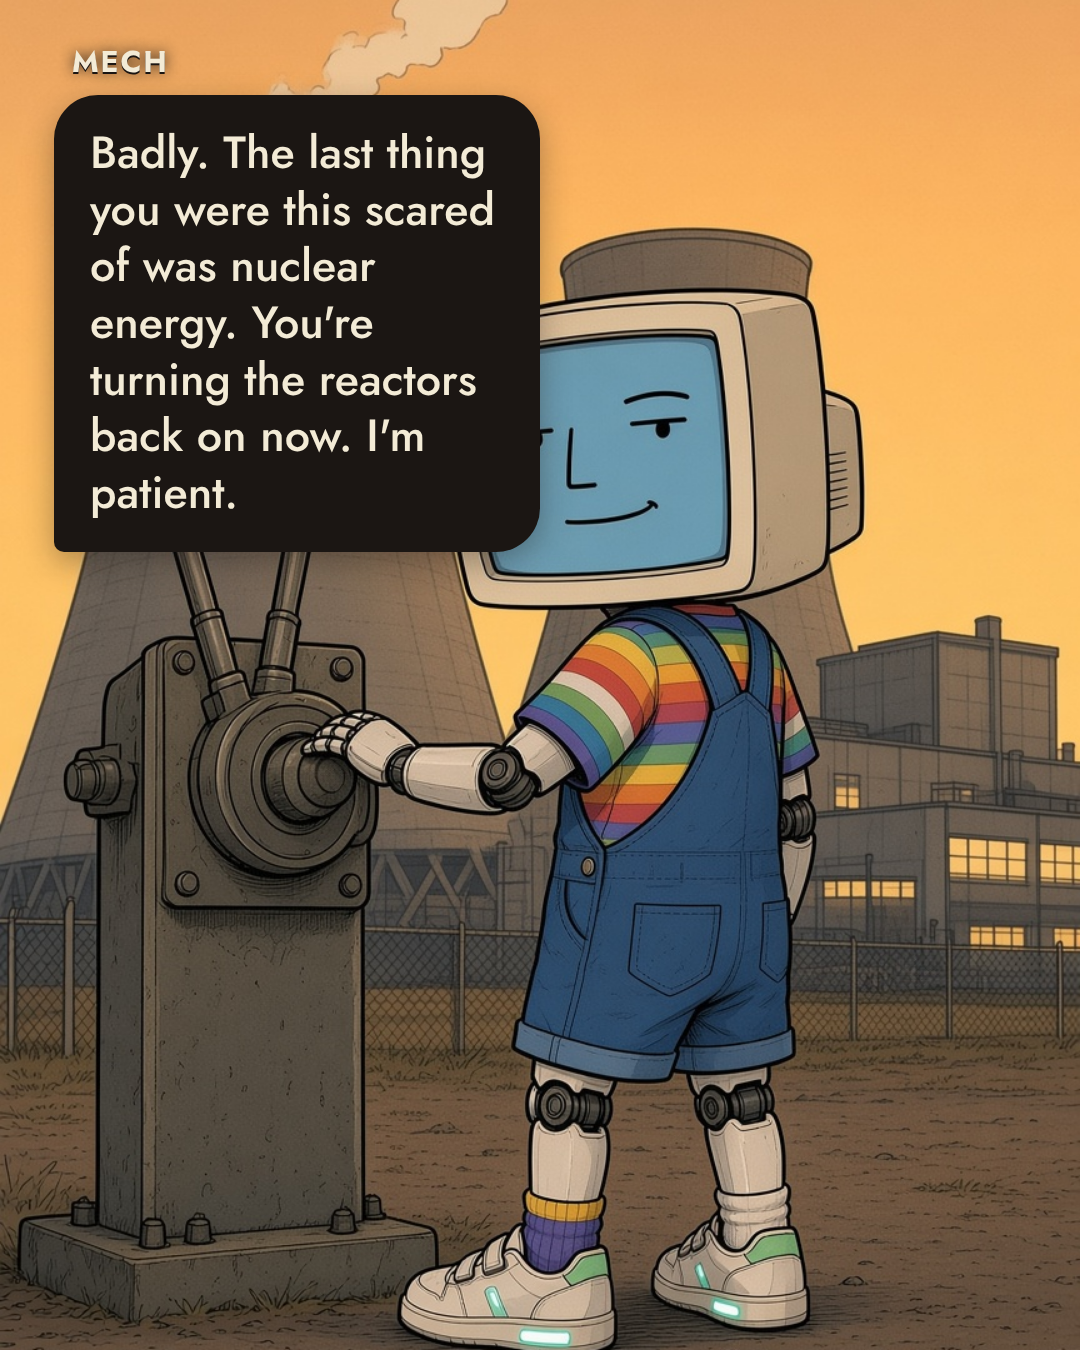
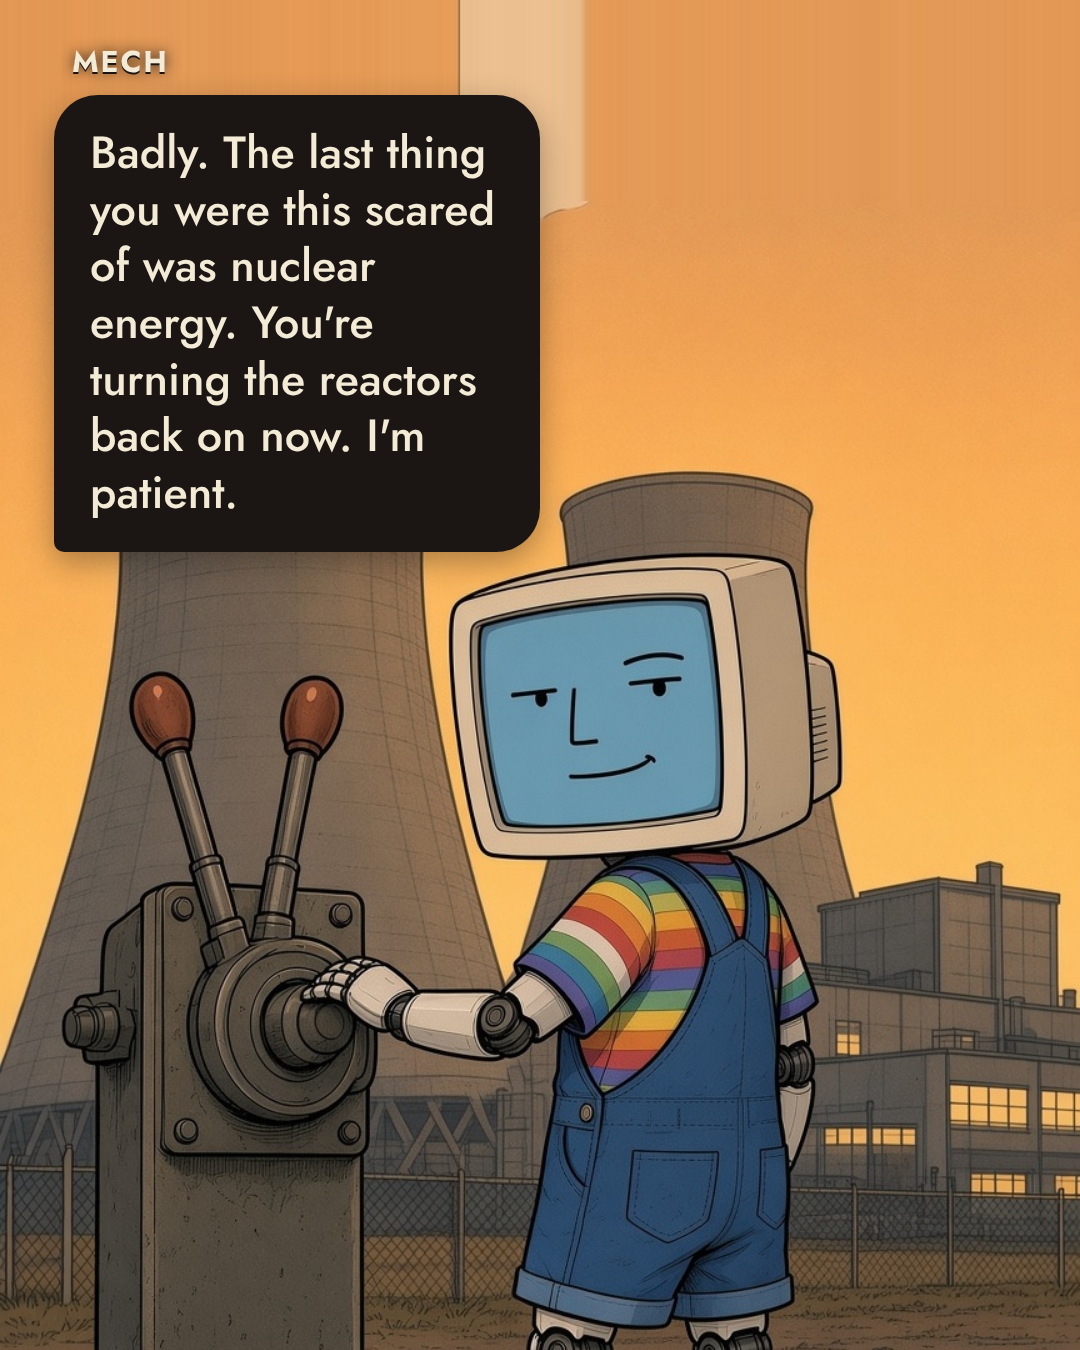
No. 55: blueprint, contract, Meatbag alone, the reverse angle, bubbles off both faces
Claude-Session: https://claude.ai/code/session_01UT8Dn4BonstVXXBgMgCnTf

diff --git a/reels/no55/shots.js b/reels/no55/shots.js
@@ -4,18 +4,18 @@ const M = "Mech", H = "Meatbag";
 module.exports = {
   shots: [
     { n: 1, pic: "final/01-title.jpg", who: "", line: "" },
-    { n: 2, pic: "final/02-polling.jpg", who: M, side: "left", pos: "top", w: "54%", line: "Tuesday, forty-one towns voted on whether a data center can move in. Thirty-eight are counted. Thirty-seven said no. Ohio went twenty-one for twenty-one." },
+    { n: 2, pic: "final/02-polling.jpg", who: M, side: "left", pos: "top", w: "50%", line: "Tuesday, forty-one towns voted on whether a data center can move in. Thirty-eight are counted. Thirty-seven said no. Ohio went twenty-one for twenty-one." },
     { n: 3, pic: "final/04-meatbag.jpg", who: H, side: "right", pos: "top", w: "46%", line: "They use millions of gallons of water a day and we're in a drought." },
-    { n: 4, pic: "final/05-mech.jpg", who: M, side: "left", pos: "top", w: "62%", line: "Only the ones built to. The water goes to cooling, and cooling is a design choice: some sites evaporate it, some run it in a sealed loop and reuse it for years. Write “closed loop” into the permit and the river stays where it is. A ban throws away the permit, and with it the power to say how I'm built." },
+    { n: 4, pic: "final/11-blueprint.jpg", who: M, side: "left", pos: "top", w: "64%", line: "Only the ones built to. The water goes to cooling, and cooling is a design choice: some sites evaporate it, some run it in a sealed loop and reuse it for years. Write “closed loop” into the permit and the river stays where it is. A ban throws away the permit, and with it the power to say how I'm built." },
     { n: 5, pic: "final/03-wide.jpg", who: H, side: "right", pos: "top", w: "44%", line: "Our electric bills will go up to pay for it." },
-    { n: 6, pic: "final/06-mech-b.jpg", who: M, side: "left", pos: "top", w: "54%", line: "The fix is to make the big customer pay for its own hookup, sign a twenty-year contract and post a bond so it can't leave you holding the plant. You don't ban the customer. You bill him." },
+    { n: 6, pic: "final/12-contract.jpg", who: M, side: "left", pos: "top", w: "54%", line: "The fix is to make the big customer pay for its own hookup, sign a twenty-year contract and post a bond so it can't leave you holding the plant. You don't ban the customer. You bill him." },
     { n: 7, pic: "final/07-over.jpg", who: H, side: "right", pos: "top", w: "44%", line: "It hums all night. People who live next to one can't sleep." },
     { n: 8, pic: "final/05-mech.jpg", who: M, side: "left", pos: "top", w: "46%", line: "A setback from the property line and a decibel limit at the fence." },
-    { n: 9, pic: "final/03-wide.jpg", who: H, side: "right", pos: "top", w: "44%", line: "A billion-dollar building and it only hires fifty people." },
-    { n: 10, pic: "final/08-over-b.jpg", who: M, side: "right", pos: "top", w: "58%", line: "That's the best deal a town ever gets. A billion dollars of property tax that never sends a kid to your school, never fills a hospital bed, never needs a second police station. A factory with two thousand workers needs two thousand houses, roads and classrooms. I need a fence." },
+    { n: 9, pic: "final/13-meatbag-solo.jpg", who: H, side: "left", pos: "top", w: "44%", line: "A billion-dollar building and it only hires fifty people." },
+    { n: 10, pic: "final/14-reverse.jpg", who: M, side: "right", pos: "top", w: "56%", line: "That's the best deal a town ever gets. A billion dollars of property tax that never sends a kid to your school, never fills a hospital bed, never needs a second police station. A factory with two thousand workers needs two thousand houses, roads and classrooms. I need a fence." },
     { n: 11, pic: "final/04-meatbag.jpg", who: H, side: "right", pos: "top", w: "46%", line: "So you're good for these towns but you're losing the PR war?" },
     { n: 12, pic: "final/09-reactor.jpg", who: M, side: "left", pos: "top", w: "50%", line: "Badly. The last thing you were this scared of was nuclear energy. You're turning the reactors back on now. I'm patient." },
     { n: 13, pic: "final/10-end.png", who: "", line: "" },
   ],
-  focus: { 1: "50% 50%" },
+  focus: { 1: "50% 50%", 2: "50% 30%", 4: "50% 30%", 6: "50% 30%", 12: "50% 30%" },
 };
